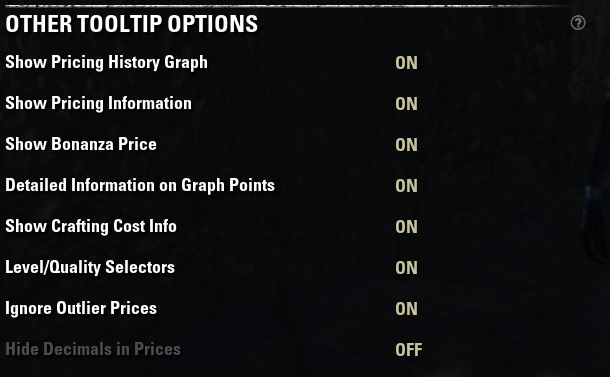
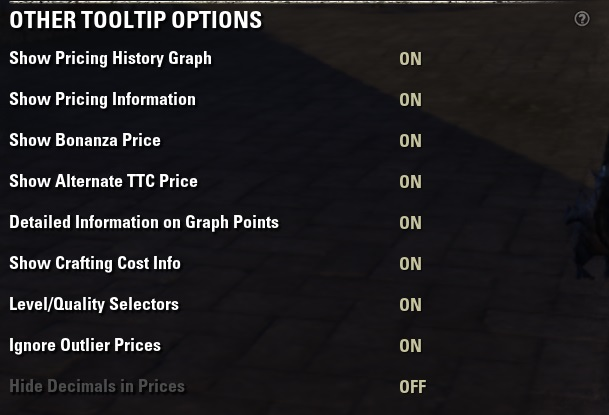
Added deal calc options and tooltip examples

diff --git a/3-master_merchant.html b/3-master_merchant.html
@@ -477,6 +477,7 @@ title: Master Merchant
 <h3 class="header3" id="OtherTooltipOptions">3.11.1.5 - Other Tooltip Options</h3>
 <p class="empty">&nbsp;</p>
 <p>{% include image.html file="img/other_tooltip_options.jpg" alt="other_tooltip_options" %}</p>
+<p>{% include image-caption.html file="img/tool_tip_examples.jpg" alt="tool_tip_examples" caption="Tool Tip Examples" %}</p>
 <p class="empty">&nbsp;</p>
 <p class="list-1">&bull;&nbsp; <font class="tan">Level/Quality Selectors</font>: Adds Level and Quality selectors to the tooltip window. You can bring up the window by clicking a link in chat or when you right click an item and choose <a  href="#PopupItemData" >Popup Item Data</a>. See the <a  href="#LevelQualitySelectors" >Level Quality Selectors</a> section for example of the selectors that appear on the tooltip window.</p>
 <p class="empty">&nbsp;</p>
@@ -496,6 +497,7 @@ title: Master Merchant
 <p class="list-1">&bull;&nbsp; <font class="tan">Save Central Pricing Data</font>: When <font class="yellow">Enabled</font> all pricing data is stored and available to all guilds. When <font class="yellow">Disabled</font> all pricing data is stored separate for each guild.</p>
 <p class="list-1">&bull;&nbsp; <font class="tan">Display Profit Filter</font>: Adds the Profit to the <font class="tan">Time</font> column for the guild store.</p>
 <p class="list-1">&bull;&nbsp; <font class="tan">Display profit instead of margin</font>: Enabled shows the profit value in gold pieces, and disabled shows a percentage.</p>
+<p class="list-1">&bull;&nbsp; <font class="tan">Deal Calculator Type</font>: Choose from MM Average, TTC Average, TTC Suggested, and the Bonanza Price.</p>
 <p class="empty">&nbsp;</p>
 <p class="note"> The Price Calculator will not show up with Awesome Guild Store. The Profit Filter is AGS only. Adding the profit margin or the total profit will be shown with or without AGS.</p>
 <p class="note"> Awesome Guild Store uses its own internal pricing routines and only uses the MM Pricing Data when there is not AGS information. Because of that it may appear that the MM pricing data is malfunctioning when it isn't.</p>
